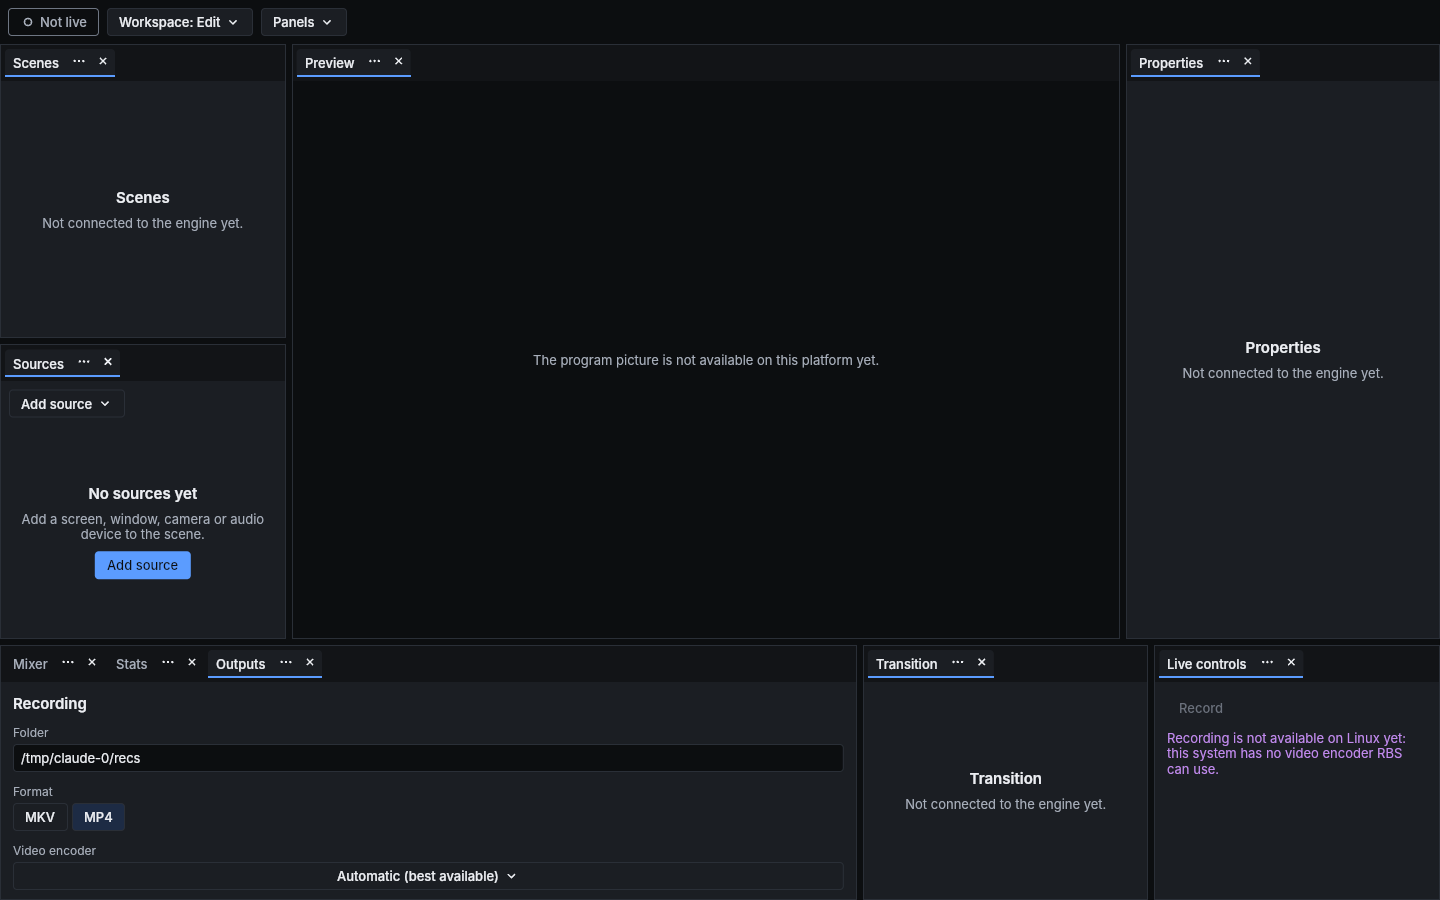
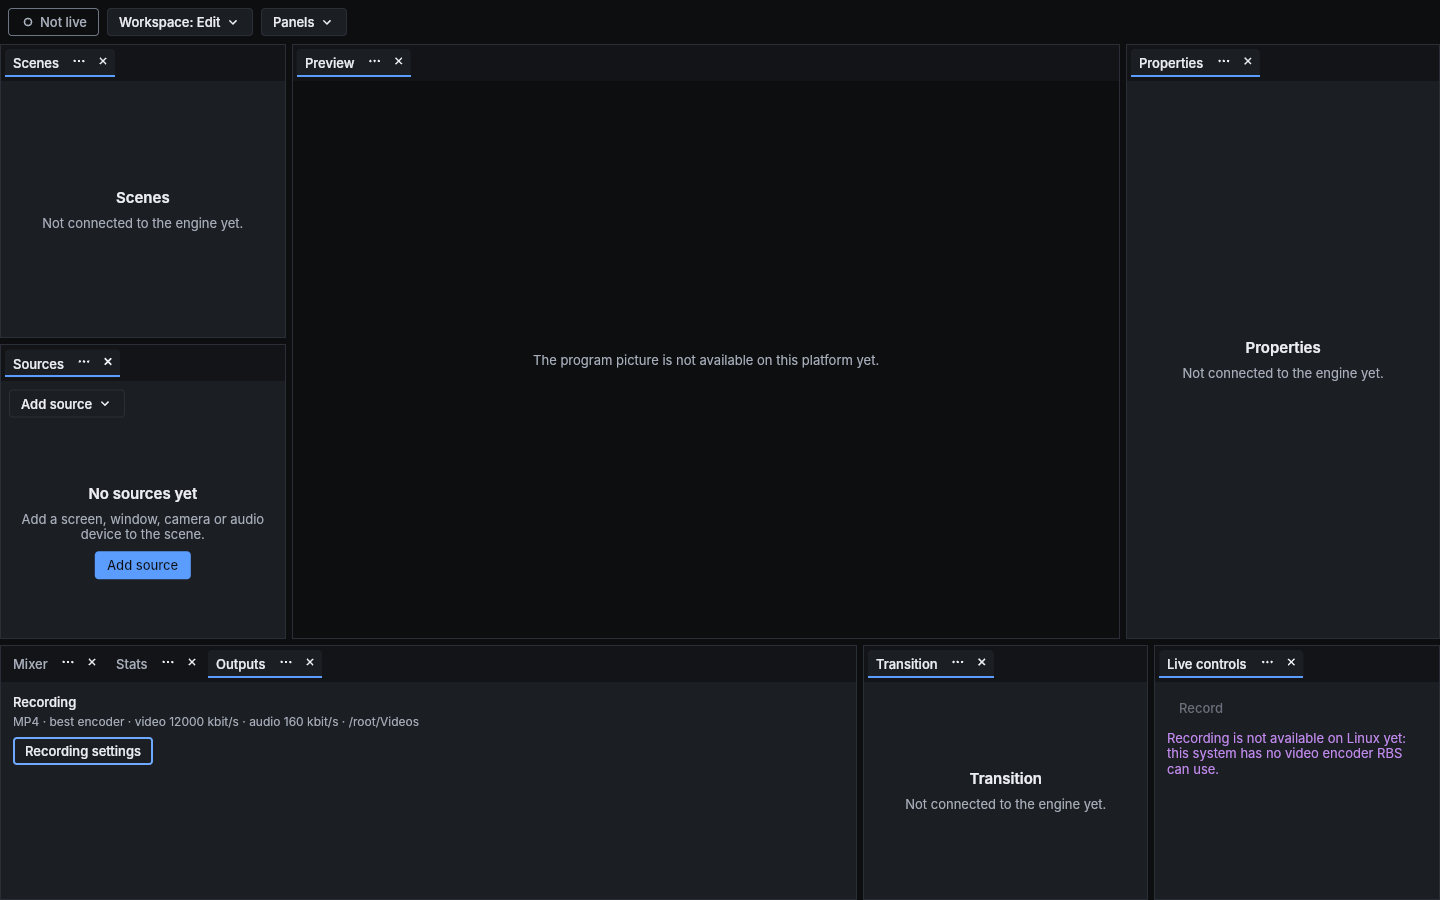
Keep a screen's aspect ratio and move recording settings to a Settings window (#97)
- A screen or window source is placed as large as fits on the canvas with
  its own aspect ratio, centred (Layout::fit), in the app and in rbs-cli: a
  3440x1440 display was stretched over the 16:9 canvas (seen on SC-PC).
  SourceTarget carries the target's native size for this.
- Recording settings move from the Outputs panel to a Settings window
  (U17): a docked panel was too small for the form. The Outputs panel shows
  a one-line summary and a Recording settings button.
- Specs: scene-model (Layout::fit), scene-sources (SourceTarget.size),
  ui-design-system (Outputs, Settings window, add-source placement).

Claude-Session: https://claude.ai/code/session_01JNUCDRTpuJM7Lr4t5p1VMd

Changed region(s): [[0.0, 0.7778, 0.2812, 0.9644], [0.2188, 0.9644, 0.3438, 0.9956]]

diff --git a/crates/rbs-app/src/main.rs b/crates/rbs-app/src/main.rs
@@ -132,6 +132,8 @@ struct App {
     exiting: bool,
     demo_since: Option<Instant>,
     studio: studio_ui::StudioUi,
+    /// The Settings window while it is open (U17).
+    settings: Option<SettingsWindow>,
 }
 
 impl App {
@@ -392,6 +394,32 @@ impl Ctx {
     #[cfg(not(any(target_os = "macos", windows)))]
     fn connect_preview(&self, _endpoint: rbs_gpu::share::PreviewEndpoint) {}
 
+    /// Shows the Settings window, made on first use and kept until it is closed.
+    fn open_settings(&self) {
+        let ctx = self.clone();
+        self.update(move |app| {
+            if let Some(w) = &app.settings {
+                let _ = w.show();
+                return;
+            }
+            let Ok(w) = SettingsWindow::new() else {
+                app.error = Some(UiError::Other(
+                    "The settings window cannot be opened.".into(),
+                ));
+                return;
+            };
+            apply_theme(&w.global::<Theme>());
+            install_studio(&w.global::<Studio>(), &ctx);
+            let c = ctx.clone();
+            w.window().on_close_requested(move || {
+                c.update(|app| app.settings = None);
+                slint::CloseRequestResponse::HideWindow
+            });
+            let _ = w.show();
+            app.settings = Some(w);
+        });
+    }
+
     /// One meter refresh (the timer runs only while the Mixer shows meters).
     fn meter_tick(&self) {
         if let Ok(mut app) = self.app.try_borrow_mut() {
@@ -471,6 +499,9 @@ impl Ctx {
         s.push(&app.main.global::<Studio>(), state, panel);
         for f in &app.floats {
             s.push(&f.window.global::<Studio>(), state, panel);
+        }
+        if let Some(w) = &app.settings {
+            s.push(&w.global::<Studio>(), state, panel);
         }
 
         if mixer_shown && s.has_meters() {
@@ -887,6 +918,10 @@ fn install_studio(g: &Studio<'_>, ctx: &Ctx) {
     on!(on_reset_clip, |app, i: i32| {
         app.studio.reset_clip(i);
     });
+    {
+        let ctx = ctx.clone();
+        g.on_open_settings(move || ctx.open_settings());
+    }
     on!(on_record, |app| {
         app.studio.record();
     });
@@ -973,6 +1008,7 @@ fn main() -> Result<(), Box<dyn std::error::Error>> {
             error,
             save_due: false,
             exiting: false,
+            settings: None,
             demo_since: demo_live.then(Instant::now),
             studio: studio_ui::StudioUi::new(&studio_config),
         })),

diff --git a/crates/rbs-app/src/studio_host.rs b/crates/rbs-app/src/studio_host.rs
@@ -114,6 +114,8 @@ pub struct Target {
     pub target: String,
     /// The OS default of its kind (audio endpoints).
     pub is_default: bool,
+    /// Native size in pixels when known (displays and windows).
+    pub size: Option<(u32, u32)>,
 }
 
 /// How a source is doing.
@@ -492,6 +494,7 @@ impl Host {
                         adapter: t.adapter.as_str().to_owned(),
                         target: t.target,
                         is_default: t.is_default,
+                        size: t.size,
                     })
                     .collect();
                 notify(Update::Targets(kind, targets));
@@ -629,7 +632,12 @@ impl Host {
         let layout = match kind {
             SourceKind::Screen | SourceKind::Window => {
                 settings.insert(keys::FPS.into(), SettingValue::Int(fps));
-                Layout::new([0.0, 0.0], [w as f32, h as f32])
+                // As large as fits with its own aspect ratio, centred: a 21:9 display
+                // is not squeezed into a 16:9 canvas.
+                match target.size {
+                    Some((sw, sh)) => Layout::fit(w, h, sw, sh),
+                    None => Layout::new([0.0, 0.0], [w as f32, h as f32]),
+                }
             }
             SourceKind::Camera => {
                 let (cw, ch, cfps) = CAMERA_SIZE;

diff --git a/crates/rbs-scene/src/model.rs b/crates/rbs-scene/src/model.rs
@@ -221,6 +221,25 @@ impl Layout {
         }
     }
 
+    /// A `source_w` x `source_h` picture as large as fits in a `box_w` x `box_h` canvas
+    /// with its aspect ratio kept, centred (letterbox or pillarbox). An empty source
+    /// size fills the canvas.
+    pub fn fit(box_w: u32, box_h: u32, source_w: u32, source_h: u32) -> Self {
+        let (bw, bh) = (box_w as f32, box_h as f32);
+        if source_w == 0 || source_h == 0 {
+            return Self::new([0.0, 0.0], [bw, bh]);
+        }
+        let (sw, sh) = (source_w as f32, source_h as f32);
+        // The side that limits keeps the canvas size exactly.
+        let (w, h) =
+            if u64::from(source_w) * u64::from(box_h) >= u64::from(source_h) * u64::from(box_w) {
+                (bw, bw * sh / sw)
+            } else {
+                (bh * sw / sh, bh)
+            };
+        Self::new([(bw - w) / 2.0, (bh - h) / 2.0], [w, h])
+    }
+
     /// The same layout rotated by `degrees`.
     pub const fn with_rotation(mut self, degrees: f32) -> Self {
         self.rotation = degrees;

diff --git a/crates/rbs-sources/src/registry.rs b/crates/rbs-sources/src/registry.rs
@@ -84,6 +84,9 @@ pub struct SourceTarget {
     pub name: String,
     /// The OS default of its kind (audio endpoints only; capture has no default).
     pub is_default: bool,
+    /// Native size in pixels when the adapter knows it (displays and windows), so a
+    /// picker can place the source with its aspect ratio.
+    pub size: Option<(u32, u32)>,
 }
 
 /// What [`SourceTypes::instantiate`] needs besides the source.
@@ -395,6 +398,7 @@ impl SourceTypes {
                             target: t.id.as_str().to_owned(),
                             name: t.name,
                             is_default: false,
+                            size: t.size,
                         });
                     }
                 }
@@ -407,6 +411,7 @@ impl SourceTypes {
                             target: e.id.as_str().to_owned(),
                             name: e.name,
                             is_default: e.is_default,
+                            size: None,
                         });
                     }
                 }

diff --git a/crates/rbs-scene/tests/collection.rs b/crates/rbs-scene/tests/collection.rs
@@ -758,3 +758,27 @@ fn negative_size_flips_and_rotation_composes_inside_nested_scenes() {
     close(t.apply(0.0, 0.0), (0.0, 1080.0));
     close(t.apply(1.0, 1.0), (960.0, 0.0));
 }
+
+#[test]
+fn fit_keeps_the_aspect_ratio_and_centres() {
+    // 21:9 display on a 16:9 canvas: full width, bars above and below.
+    let l = Layout::fit(1920, 1080, 3440, 1440);
+    assert_eq!(l.size[0], 1920.0);
+    assert!((l.size[1] - 803.7209).abs() < 0.01, "{l:?}");
+    assert!((l.position[1] - (1080.0 - l.size[1]) / 2.0).abs() < 0.001);
+    assert_eq!(l.position[0], 0.0);
+    // 4:3 on 16:9: full height, bars left and right.
+    assert_eq!(
+        Layout::fit(1920, 1080, 1440, 1080),
+        Layout::new([240.0, 0.0], [1440.0, 1080.0])
+    );
+    // Same aspect fills; an unknown size fills.
+    assert_eq!(
+        Layout::fit(1920, 1080, 3840, 2160),
+        Layout::new([0.0, 0.0], [1920.0, 1080.0])
+    );
+    assert_eq!(
+        Layout::fit(1920, 1080, 0, 0),
+        Layout::new([0.0, 0.0], [1920.0, 1080.0])
+    );
+}

diff --git a/crates/rbs-app/src/studio_ui.rs b/crates/rbs-app/src/studio_ui.rs
@@ -181,6 +181,24 @@ impl StudioUi {
                 .unwrap_or(0) as i32,
         );
         g.set_out_note(self.profile_note.as_str().into());
+        let encoder = match self.encoder_index() {
+            0 => "best encoder".to_owned(),
+            i => self
+                .encoders
+                .get(i - 1)
+                .map_or_else(String::new, |e| e.name.clone()),
+        };
+        g.set_out_summary(
+            format!(
+                "{} · {} · video {} kbit/s · audio {} kbit/s · {}",
+                p.format.label(),
+                encoder,
+                p.video_kbps,
+                p.audio_kbps,
+                p.folder.display()
+            )
+            .into(),
+        );
         if g.get_out_folder_serial() != self.folder_serial as i32 {
             g.set_out_folder(self.profile.folder.display().to_string().into());
             g.set_out_folder_serial(self.folder_serial as i32);

diff --git a/crates/rbs-cli/src/scene.rs b/crates/rbs-cli/src/scene.rs
@@ -119,7 +119,12 @@ pub fn build(types: &SourceTypes, args: &RecordArgs) -> Result<BuiltScene, Strin
         "Display",
         types::DISPLAY_SOURCE,
         settings,
-        Layout::new([0.0, 0.0], [w as f32, h as f32]),
+        // Its own aspect ratio, centred: a 21:9 display is not squeezed into 16:9.
+        display
+            .size
+            .map_or(Layout::new([0.0, 0.0], [w as f32, h as f32]), |(sw, sh)| {
+                Layout::fit(w, h, sw, sh)
+            }),
     )?;
 
     if args.no_camera {

diff --git a/docs/specs/ui-design-system.md b/docs/specs/ui-design-system.md
@@ -115,11 +115,12 @@ The app runs the studio in its own process on a control thread (`rbs_app::studio
 
 - **Program and Preview.** While studio mode does not exist yet, both panels show the scene on air. The picture goes to Program when that panel is open, otherwise to Preview, and the other panel says where the picture is. The picture is the studio's preview surfaces (1280 x 720, a ring of 3) shown as a native layer over the panel's content: a Core Animation layer on macOS (ADR-0034) and a DirectComposition visual on Windows (ADR-0036). It is letterboxed, and a new frame changes only the layer. The layer is hidden while an in-window popup is open (each popup counts itself in `Studio.overlays`), while a toast or the error bar shows, and while the panel is not in the main window. A panel that cannot show the picture says why in words: the studio is starting, the platform has no preview yet (Linux), the session cannot show the layer (for example remote desktop), the picture is in the main window, or the studio stopped. Accessible role: image, named after the panel.
 - **Sources.** The panel lists the scene's sources, top first. Each row has the name, the type ("Screen capture", "Window capture", "Camera", "Audio input", "System audio", "Application audio") and the state in words: "Running"; "Not shown, closed" for a video source with no picture or recording to feed, which is not opened (P13); or "Not running: <reason>". Each row has a Delete source button. The empty state offers Add source.
-- **Add source (core flow, 3 interactions).** Add source, then a type (only types this system's adapters provide), then what it captures (the OS's displays, windows, cameras or endpoints, with the default marked). The source is added on top: a screen or window fills the canvas at the canvas rate; a camera asks for 1280 x 720 at 30 fps and sits 4/15 of the canvas wide in the bottom-right corner; audio is placed in the scene only so that it plays. A name the collection already uses gets " 2", " 3" and so on. The picker has no live preview yet, and there are no handles on the picture yet.
+- **Add source (core flow, 3 interactions).** Add source, then a type (only types this system's adapters provide), then what it captures (the OS's displays, windows, cameras or endpoints, with the default marked). The source is added on top: a screen or window is as large as fits on the canvas with its own aspect ratio, centred (a 21:9 display gets bars above and below on a 16:9 canvas), at the canvas rate; a camera asks for 1280 x 720 at 30 fps and sits 4/15 of the canvas wide in the bottom-right corner; audio is placed in the scene only so that it plays. A name the collection already uses gets " 2", " 3" and so on. The picker has no live preview yet, and there are no handles on the picture yet.
 - **Delete source** removes the source from every scene. A toast "<name> deleted." with Undo shows for the toast time; Undo puts it back.
 - **Mixer.** One horizontal AudioMeter per playing audio source, in list order, with the labelled scale under the bars and a clip box that resets on click or activation. Meters update at 30 Hz only while the Mixer is the active tab of a shown stack and has meters; otherwise the timer is stopped (U5, U21). Mute, volume and monitoring (U16) come with the strip controls. Windows and Linux draw the meters in Slint; the macOS meter bridge is not used by the panel yet.
 - **Live controls (Record).** One button: Record, and Stop recording while a recording runs (the fixed live colour, U12). The text under it says the state in words: starting, "Recording to <file>", stopping, the last outcome ("Saved <path>", with dropped frames if any) or why recording is not possible (no video encoder on this system, the studio stopped). Stopping a recording needs no confirmation while nothing is live (U4: confirmations are for actions while live); with streaming outputs it will. While recording, the live indicator shows "Recording", the duration (1 Hz timer only while recording) and the file name as the output. Closing the app stops the recording and closes the file first.
-- **Outputs (recording settings).** The settings of the next recording, applied and saved at once; while a recording runs they are disabled and say "Changes apply to the next recording". Folder (a full path, confirmed with Return or by leaving the field; default: the user's Videos folder, Movies on macOS), Format (MKV or MP4, a segmented control), Video encoder ("Automatic (best available)" or one of the encoders this system has: only the picked one is tried, and the recording does not start if it cannot open), Video bitrate (presets 2500 to 80000 kbit/s, constant bitrate) and Audio bitrate (AAC 96, 128, 160 or 192 kbit/s, the rates Media Foundation AAC accepts). Each recording gets a new file "RBS <local date> <time>.<ext>"; an existing file is never replaced. The settings are kept in `recording.toml` in the config directory (`format_version = 1`, `folder`, `format` = `"mkv"` or `"mp4"`, optional `encoder` adapter id, `video_kbps`, `audio_kbps`); an unreadable or invalid file gives the defaults and a note in the panel. This is the first, local form of an output profile; profiles with streaming outputs replace it later.
+- **Outputs.** One line per output saying what it will do: for the recording, the format, encoder, bitrates and folder ("MKV · best encoder · video 12000 kbit/s · audio 160 kbit/s · C:\Users\me\Videos"), and a "Recording settings" button that opens the Settings window there. Settings are not edited in the panel (U17): a docked panel is often too small for a form.
+- **Settings window, Recording section (U17).** A separate window with the list of sections on the left (only Recording so far; the search field comes when there are more) and the section's settings on the right. Recording: Folder (a full path, confirmed with Return or by leaving the field; default: the user's Videos folder, Movies on macOS), Format (MKV or MP4, a segmented control), Video encoder ("Automatic (best available)" or one of the encoders this system has: only the picked one is tried, and the recording does not start if it cannot open), Video bitrate (presets 2500 to 80000 kbit/s, constant bitrate) and Audio bitrate (AAC 96, 128, 160 or 192 kbit/s, the rates Media Foundation AAC accepts). Changes apply to the next recording and are saved at once; while a recording runs they are disabled and say so. Each recording gets a new file "RBS <local date> <time>.<ext>"; an existing file is never replaced. The settings are kept in `recording.toml` in the config directory (`format_version = 1`, `folder`, `format` = `"mkv"` or `"mp4"`, optional `encoder` adapter id, `video_kbps`, `audio_kbps`); an unreadable or invalid file gives the defaults and a note in the section. This is the first, local form of an output profile; profiles with streaming outputs replace it later.
 - **Errors.** The studio not starting or stopping (no usable GPU, a studio node failing for good) shows in the error bar and in the panels. A hardware GPU is preferred; without one the app uses a software adapter.
 - **Checks without devices.** A build with the `demo-sources` feature and `RBS_DEMO_SOURCES=1` adds the reference adapters (synthetic display, camera, microphones, loopback) for screenshots and UI checks. `crates/rbs-app/tests/studio_host.rs` covers the host on those adapters: add, unique names, delete and undo, and shutdown. `crates/rbs-app/tests/studio_record.rs` covers recording through the host with fake encoders: the picked encoder only, automatic fallback, refusals (a running recording, an existing file, an unknown encoder) and a closed file after stop.
 

diff --git a/docs/specs/scene-model.md b/docs/specs/scene-model.md
@@ -31,7 +31,7 @@ Out of scope, later changes:
 | `SceneScope` | `Canvas(id)`: only that canvas shows it, directly or nested. `Shared`: every canvas may show it (U15) |
 | `Scene` | Name, `scope`, `items` bottom first |
 | `SceneItem` | `content` (`Source` or nested `Scene`), `visible`, default `layout`, `overrides: BTreeMap<CanvasId, Layout>`; `layout_on(canvas)` picks the override or the default |
-| `Layout` | Box at `position` (top-left, canvas pixels) of `size` (negative flips), rotated clockwise by `rotation` degrees about its centre; `crop` in source pixels; `opacity` 0..=1 |
+| `Layout` | Box at `position` (top-left, canvas pixels) of `size` (negative flips), rotated clockwise by `rotation` degrees about its centre; `crop` in source pixels; `opacity` 0..=1. `Layout::fit(box_w, box_h, source_w, source_h)` is the largest centred box with the source's aspect ratio (letterbox or pillarbox) |
 | `Settings` | `BTreeMap<String, SettingValue>`; values `Bool`, `Int`, `Float` (finite), `Text`. Schemas come with the plugin SDK |
 
 ### Edits (`SceneCollection`)

diff --git a/docs/specs/scene-sources.md b/docs/specs/scene-sources.md
@@ -45,6 +45,7 @@ impl SourceTypes {
     pub fn instantiate(&self, source: &Source, ctx: &InstanceContext)
         -> Result<SourceInstance, SourceError>;
 }
+pub struct SourceTarget { adapter, target, name, is_default, size: Option<(u32, u32)> }  // size: displays and windows, when known
 pub struct InstanceContext { clock, audio: AudioGraphConfig, max_audio_offset }  // new(), with_max_audio_offset()
 pub enum SourceInstance {
     Video(VideoSource { node: CaptureSourceNode, stats, adapter, target }),
